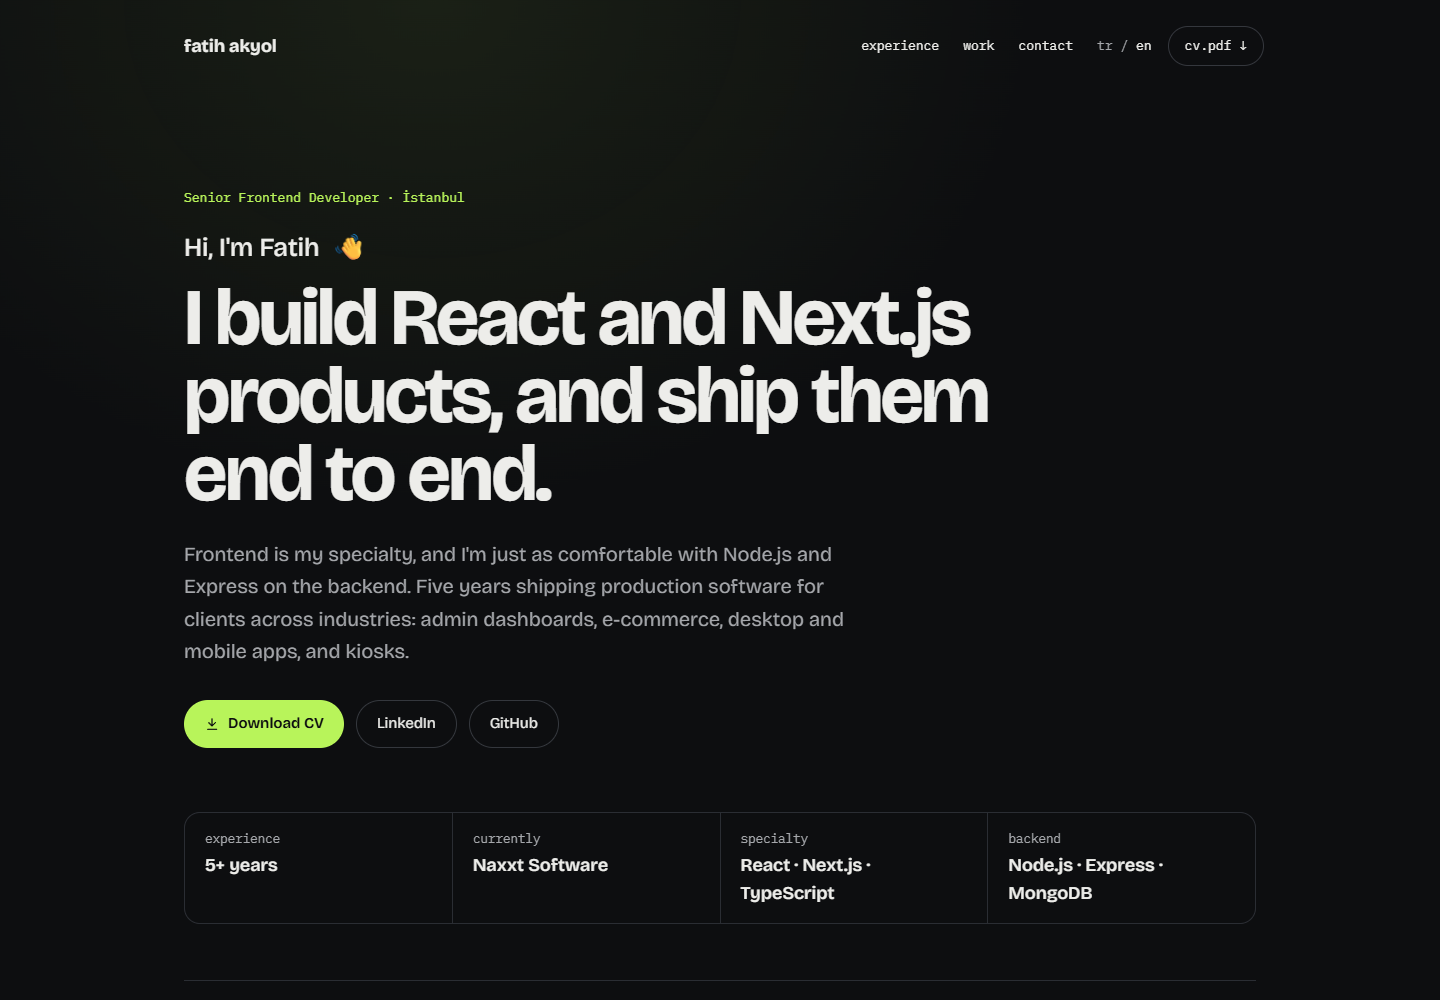
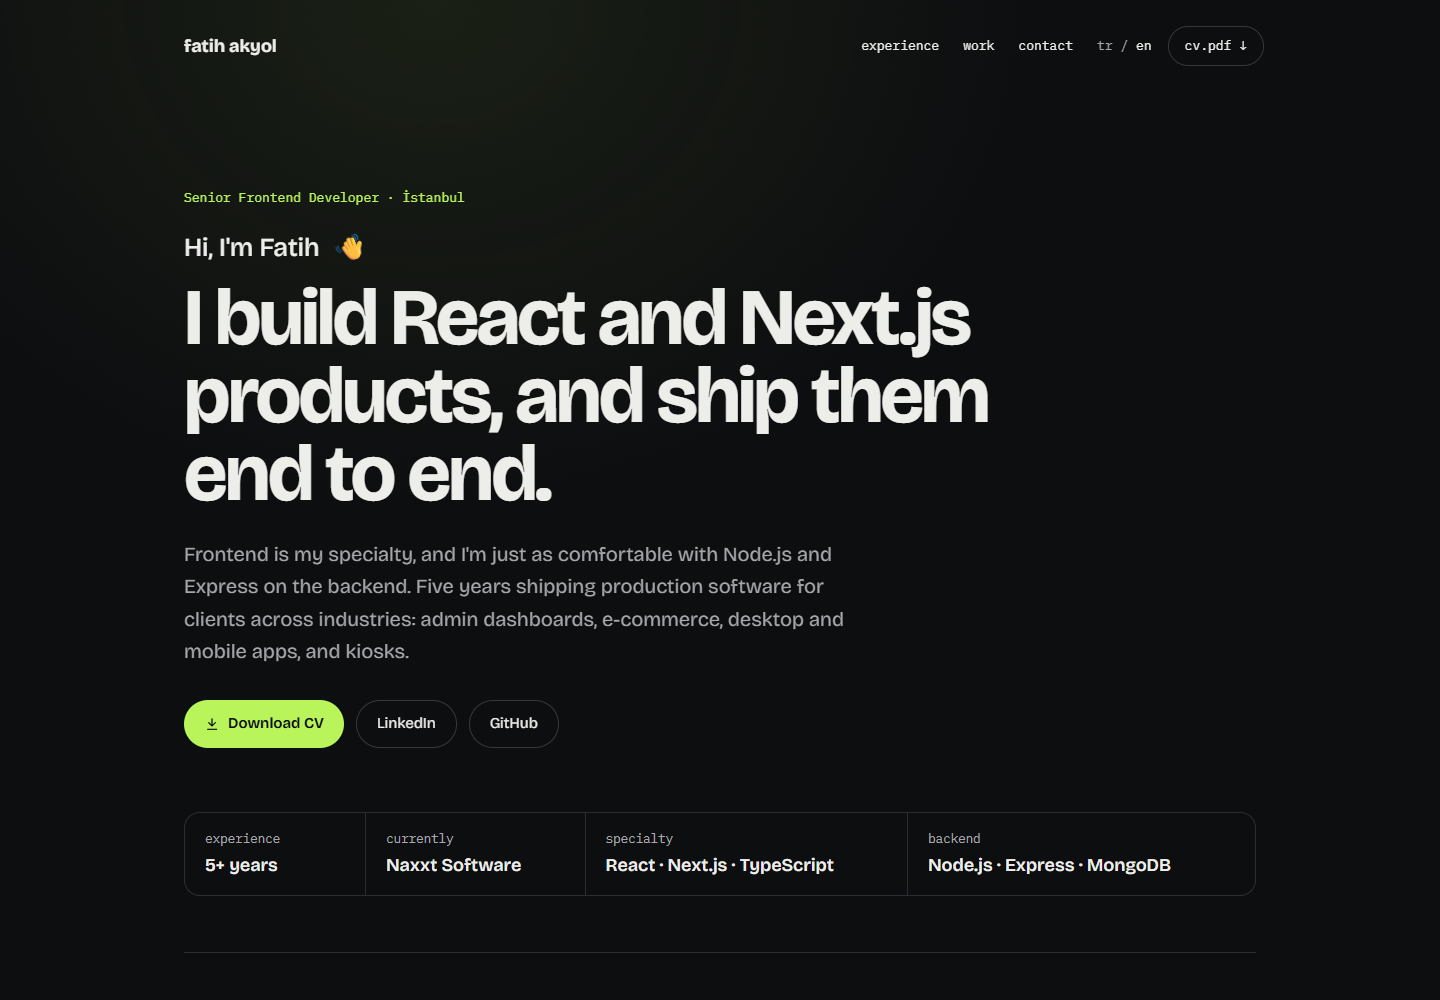
fix: keep the at-a-glance values on one line on wide screens

Changed region(s): [[0.25, 0.837, 0.5938, 0.899], [0.625, 0.837, 0.8125, 0.899], [0.1562, 0.837, 0.1875, 0.868]]

diff --git a/components/Hero.tsx b/components/Hero.tsx
@@ -57,10 +57,11 @@ export function Hero({ locale }: { locale: Locale }) {
         </ButtonLink>
       </div>
 
-      {/* 1px gaps over a border-colored grid draw the dividers between cells. */}
-      <dl className="rise mt-12 grid [--d:450ms] grid-cols-1 gap-px overflow-hidden rounded-2xl border border-border bg-border sm:grid-cols-2 lg:mt-16 lg:grid-cols-4">
+      {/* 1px gaps over a border-colored grid draw the dividers between cells. On wide screens
+          the columns are sized to their values so the stack lists stay on one line. */}
+      <dl className="rise mt-12 grid [--d:450ms] grid-cols-1 gap-px overflow-hidden rounded-2xl border border-border bg-border sm:grid-cols-2 lg:mt-16 lg:grid-cols-[0.7fr_0.85fr_1.25fr_1.35fr]">
         {GLANCE.map((g) => (
-          <div key={g.label.en} className="bg-bg px-5 py-4">
+          <div key={g.label.en} className="bg-bg px-5 py-4 lg:px-4 xl:px-5">
             <dt className="font-mono text-[12.5px] text-muted">{g.label[locale]}</dt>
             <dd className="mt-1 text-lg font-semibold">{g.value[locale]}</dd>
           </div>
